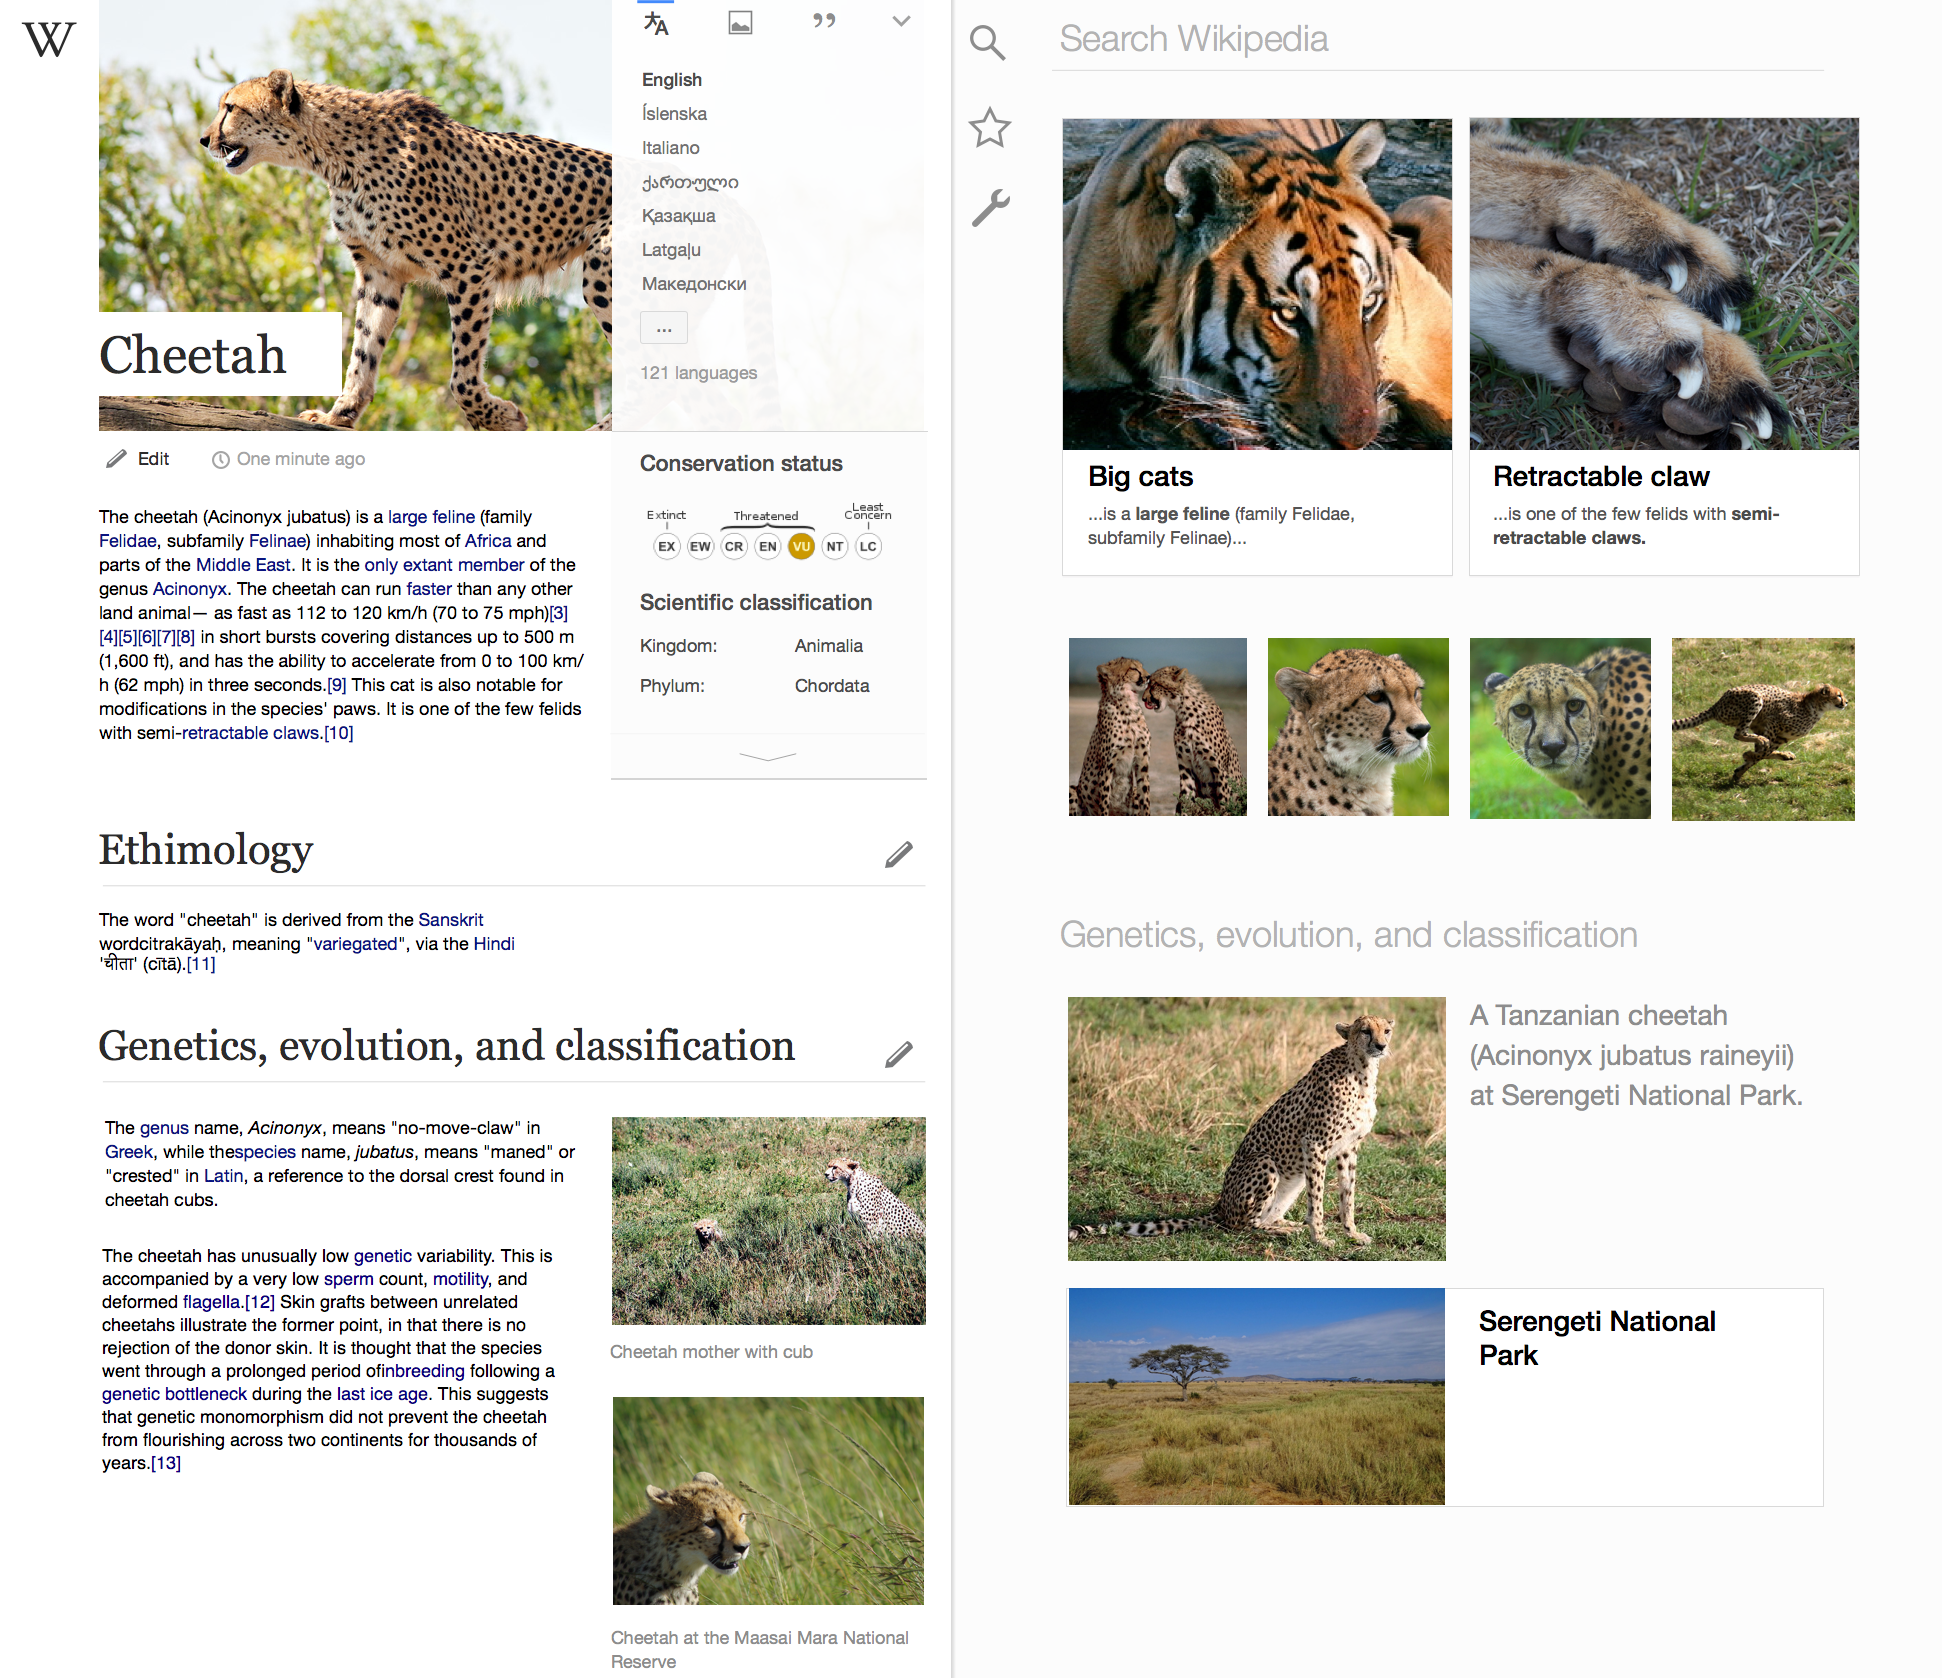
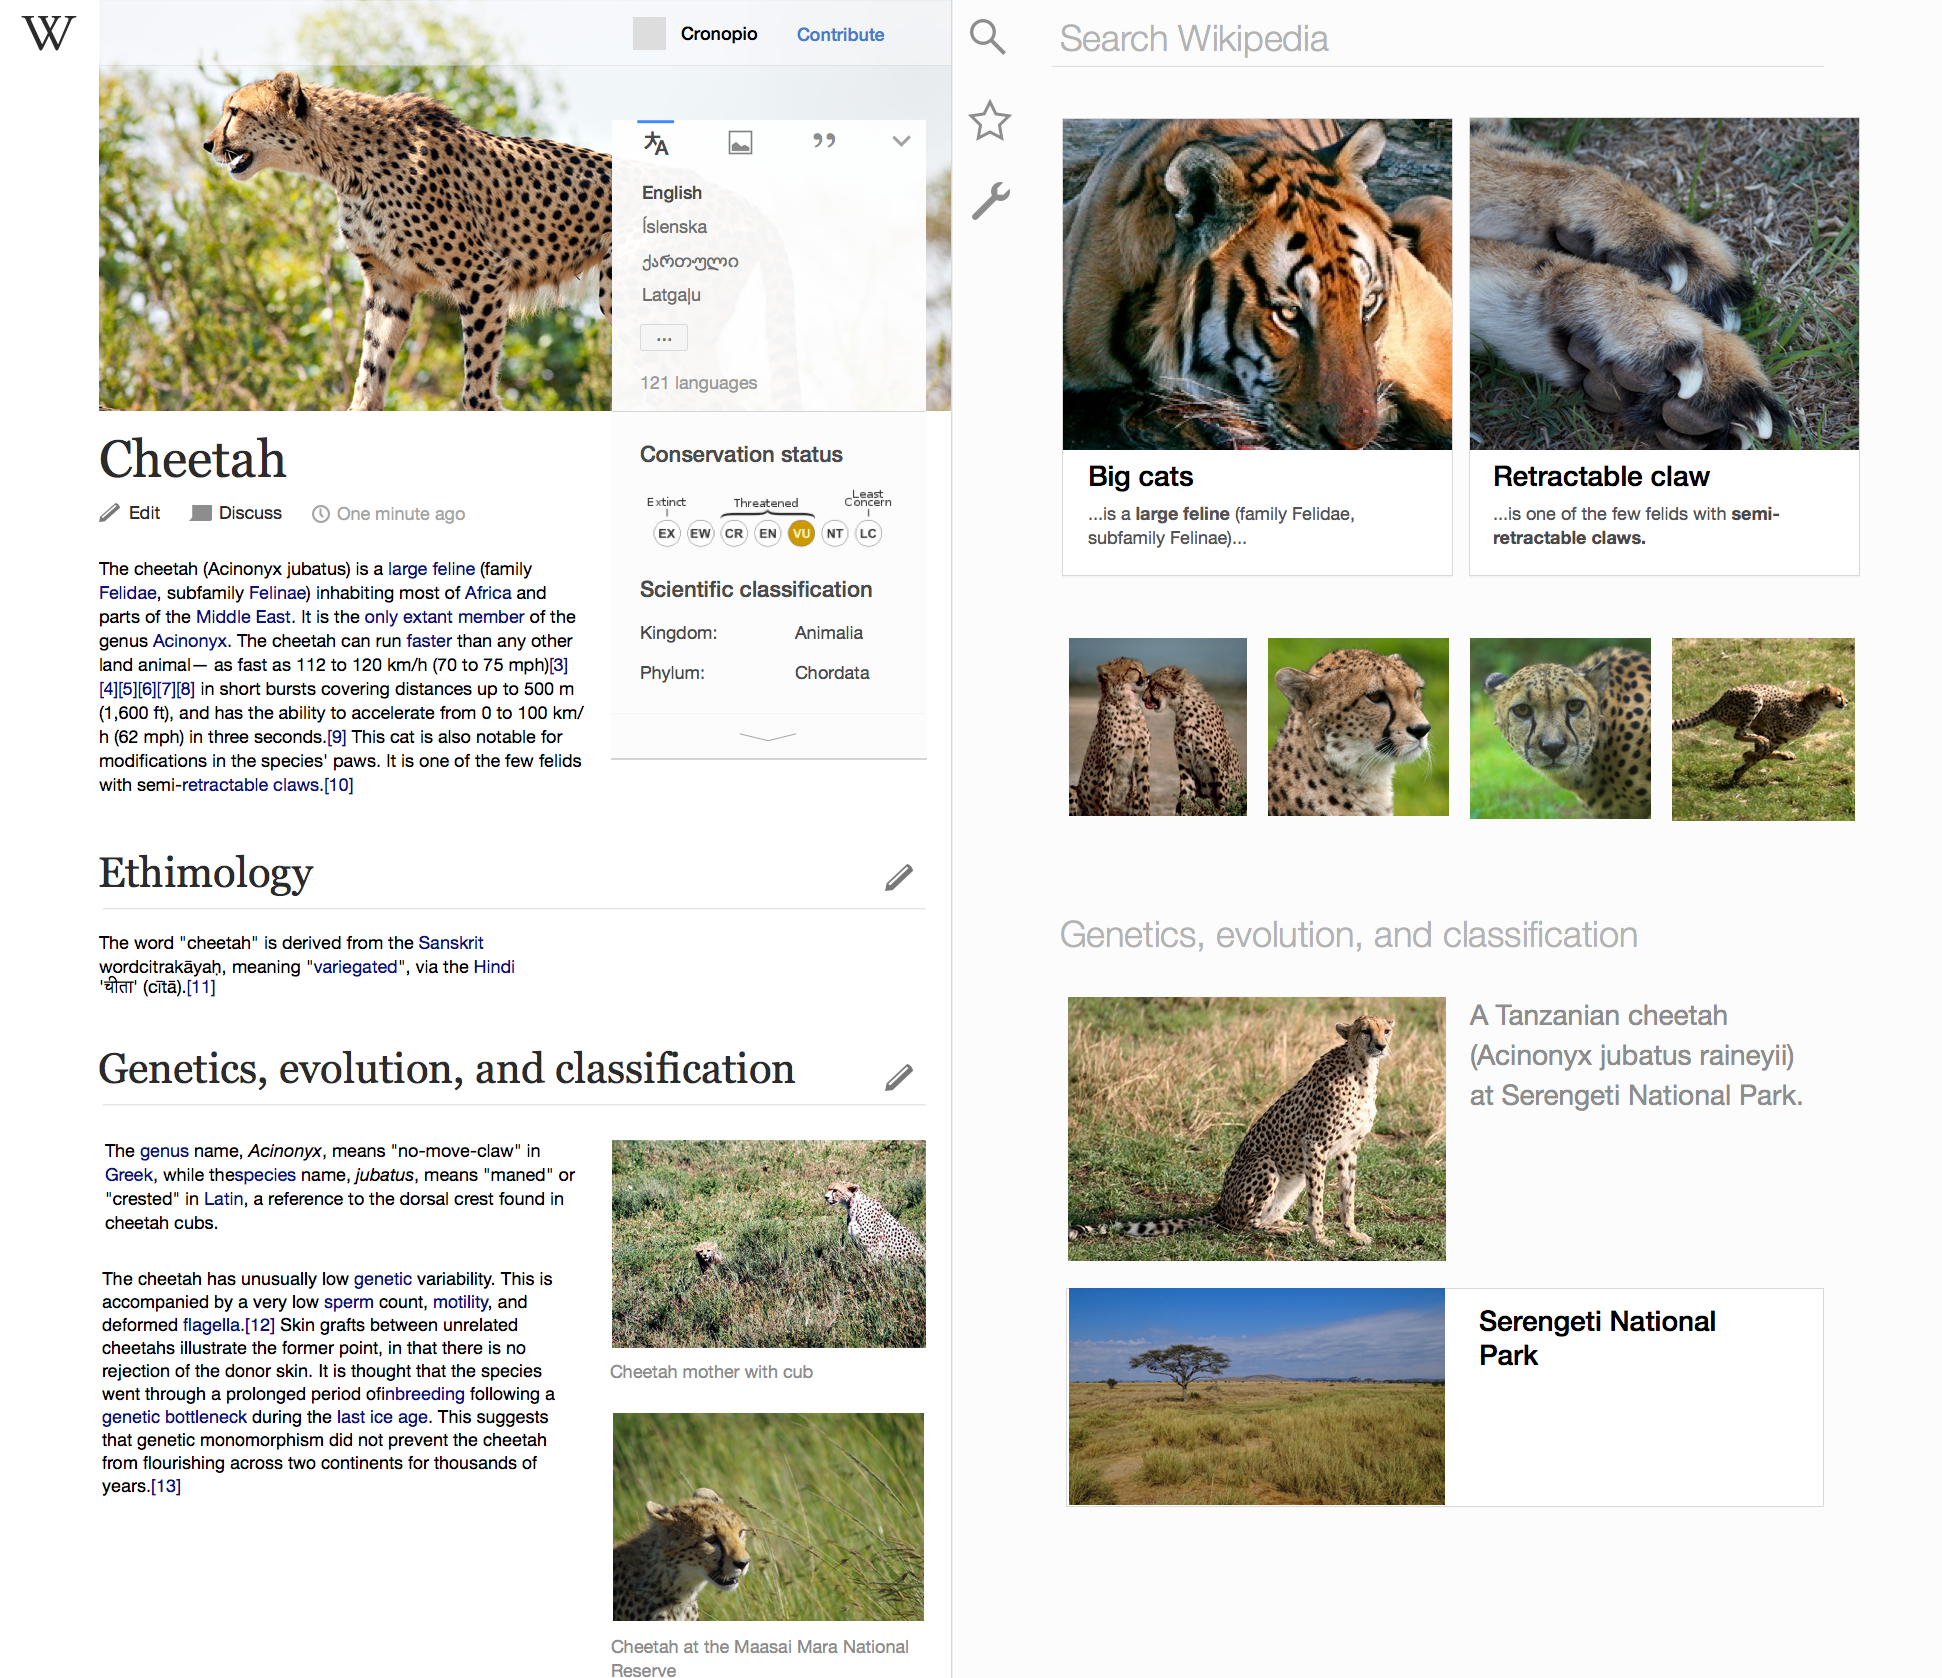
Switch image panel and layout adjustments

diff --git a/related-content/desk/index.hyperesources/index_hype_generated_script.js b/related-content/desk/index.hyperesources/index_hype_generated_script.js
@@ -2,5 +2,5 @@
 
 (function(){(function k(){var h="index.hyperesources",e="index",d="index_hype_container";if(false==!1)try{for(var f=document.getElementsByTagName("script"),b=0;b<f.length;b++){var a=f[b].src;if(null!=a&&-1!=a.indexOf("index_hype_generated_script.js")){h=a.substr(0,a.lastIndexOf("/"));break}}}catch(n){}null==window.HYPE_DocumentsToLoad&&(window.HYPE_DocumentsToLoad=[]);if(false==!1&&null==window.HYPE_248)null==window.HYPE_dtl_248?(window.HYPE_dtl_248=[],window.HYPE_dtl_248.push(k),
 e=document.getElementsByTagName("head")[0],d=document.createElement("script"),d.type="text/javascript",d.src=h+"/HYPE.js?hype_version=248",e.appendChild(d)):window.HYPE_dtl_248.push(k);else{f=window.HYPE.documents;if(null!=f[e]){a=1;b=e;do e=""+b+"-"+a++;while(null!=f[e]);for(var c=document.getElementsByTagName("div"),a=!1,b=0;b<c.length;b++)if(c[b].id==d&&null==c[b].getAttribute("HYP_dn")){var a=1,g=d;do d=""+g+"-"+a++;while(null!=document.getElementById(d));c[b].id=d;a=!0;break}if(!1==a)return}for(var a=
-new HYPE_248,c=[],c=[{name:"postOpenPanel",source:"function(hypeDocument, element, event) {\t\n\tpanelOpen = true;\n}",identifier:"6"},{name:"postClosePanel",source:"function(hypeDocument, element, event) {\tpanelOpen = false;\n\t\n}",identifier:"7"},{name:"postSwipeRight",source:"function(hypeDocument, element, event) {\t\n\tif(panelOpen){\n\thypeDocument.continueTimelineNamed('open-panel');\n\t}\n}",identifier:"8"},{name:"postSwipeLeft",source:"function(hypeDocument, element, event) {\tif(!panelOpen){\n\thypeDocument.startTimelineNamed('open-panel');\n\t}\n\t\n}",identifier:"9"}],g={},l={},b=0;b<c.length;b++)try{l[c[b].identifier]=c[b].name,g[c[b].name]=eval("(function(){return "+c[b].source+"})();")}catch(m){a.log(m),g[c[b].name]=function(){}}a.z_a({b:0,c:0,bQ:0,bC:0,d:0,aS:0,M:0,e:3,aT:0,N:0,f:2,O:0,g:5,aU:0,P:0,Q:0,aV:0,R:5,bG:3,aW:3,aI:0,S:0,T:0,l:2,aX:0,bH:2,m:5,bI:3,aJ:0,n:5,aK:0,bJ:3,X:0,aL:0,A:5,aZ:0,Y:1,B:5,bK:3,bL:3,C:5,D:5,t:0,E:0,G:5,bO:2,bA:5,a:0,bB:0});a.z_b({"0":{n:"desktop.png",p:1},"1":{n:"active-search.png",p:1}});a.z_c([]);a.z_d([{x:0,o:"1",p:"600px",c:"#FFFFFF",v:{"10":{c:60,d:1678,I:"None",J:"None",K:"None",L:"None",aP:"default",M:0,N:0,A:"#A0A0A0",x:"visible",j:"absolute",B:"#A0A0A0",aA:{a:[{p:4,h:"8"}]},k:"div",O:0,z:"3",P:0,D:"#A0A0A0",C:"#A0A0A0",a:0,b:0},"4":{o:"content-box",h:"1",a:960,x:"visible",q:"100% 100%",b:14,j:"absolute",r:"inline",aA:{a:[{b:"3",p:8}]},k:"div",c:56,d:58,z:"2",bF:"5",e:"0.000000",aP:"pointer"},"2":{o:"content-box",h:"0",x:"visible",a:0,q:"100% 100%",b:0,j:"absolute",r:"inline",c:1942,k:"div",z:"1",d:1678,bF:"5"},"5":{k:"div",x:"visible",c:1942,d:1678,z:"1",a:0,j:"absolute",b:0}},n:"Untitled Scene",G:{a:[{p:4,h:"9"}]},T:{"3":{i:"3",n:"open-panel",z:1,a:[{f:"2",y:0,z:0.15,i:"a",e:-910,s:0,o:"5"},{f:"2",y:0.07,z:0.08,i:"e",e:"1.000000",s:"0.000000",o:"4"},{f:"2",p:2,y:0.15,z:0,i:"ActionHandler",e:{a:[{b:"3",p:7}]},s:{a:[{p:4,h:"6"}]},o:"3"},{f:"2",y:0.15,z:0.07,i:"e",e:"0.000000",s:"1.000000",o:"4"},{f:"2",p:2,y:0.15,z:0.15,i:"ActionHandler",e:{a:[{p:4,h:"7"}]},s:{a:[{b:"3",p:7}]},o:"3"},{f:"2",y:0.15,z:0.15,i:"a",e:0,s:-910,o:"5"},{y:0.22,i:"e",s:"0.000000",z:0,o:"4",f:"2"},{f:"2",p:2,y:1,z:0,i:"ActionHandler",s:{a:[{p:4,h:"7"}]},o:"3"},{y:1,i:"a",s:0,z:0,o:"5",f:"2"}],f:30},kTimelineDefaultIdentifier:{i:"kTimelineDefaultIdentifier",n:"Main Timeline",z:0,a:[{y:0,i:"e",s:"0.000000",z:0,o:"4",f:"2"}],f:30}},H:{a:[{p:4,h:"8"}]}}]);a.z_e(l);a.z_p=g;a.z_f(0);a.z_g(d);a.z_h(h);a.z_i(0);a.z_j(false);
+new HYPE_248,c=[],c=[{name:"postOpenPanel",source:"function(hypeDocument, element, event) {\t\n\tpanelOpen = true;\n}",identifier:"6"},{name:"postClosePanel",source:"function(hypeDocument, element, event) {\tpanelOpen = false;\n\t\n}",identifier:"7"},{name:"postSwipeRight",source:"function(hypeDocument, element, event) {\t\n\tif(panelOpen){\n\thypeDocument.continueTimelineNamed('open-panel');\n\t}\n}",identifier:"8"},{name:"postSwipeLeft",source:"function(hypeDocument, element, event) {\tif(!panelOpen){\n\thypeDocument.startTimelineNamed('open-panel');\n\t}\n\t\n}",identifier:"9"}],g={},l={},b=0;b<c.length;b++)try{l[c[b].identifier]=c[b].name,g[c[b].name]=eval("(function(){return "+c[b].source+"})();")}catch(m){a.log(m),g[c[b].name]=function(){}}a.z_a({b:0,c:0,bQ:0,bC:0,d:0,aS:0,M:0,e:3,aT:0,N:0,f:2,O:0,g:5,aU:0,P:0,Q:0,aV:0,R:5,bG:3,aW:3,aI:0,S:0,T:0,l:2,aX:0,bH:2,m:5,bI:3,aJ:0,n:5,aK:0,bJ:3,X:0,aL:0,A:5,aZ:0,Y:1,B:5,bK:3,bL:3,C:5,D:5,t:0,E:0,G:5,bO:2,bA:5,a:0,bB:0});a.z_b({"0":{n:"active-search.png",p:1},"1":{n:"image-list.png",p:1},"2":{n:"desktop.png",p:1}});a.z_c([]);a.z_d([{x:0,o:"1",p:"600px",c:"#FFFFFF",v:{"13":{c:58,d:51,I:"None",J:"None",K:"None",L:"None",aP:"pointer",M:0,N:0,A:"#A0A0A0",x:"visible",j:"absolute",B:"#A0A0A0",aA:{a:[{p:8,b:"12"}]},k:"div",O:0,z:"5",P:0,D:"#A0A0A0",C:"#A0A0A0",a:627,b:-52},"11":{o:"content-box",h:"1",x:"visible",a:601,q:"100% 100%",b:93,j:"absolute",r:"inline",c:343,k:"div",z:"4",d:332,e:"0.000000"},"4":{o:"content-box",h:"0",a:960,x:"visible",q:"100% 100%",b:8,j:"absolute",r:"inline",aA:{a:[{b:"3",p:8}]},k:"div",c:56,d:58,z:"2",bF:"5",e:"0.000000",aP:"pointer"},"14":{c:58,d:51,I:"None",J:"None",K:"None",L:"None",aP:"pointer",M:1,N:1,A:"#A0A0A0",x:"visible",j:"absolute",B:"#A0A0A0",aA:{a:[{p:3,b:"12"}]},k:"div",O:1,z:"6",P:1,D:"#A0A0A0",C:"#A0A0A0",a:713,b:118},"5":{k:"div",x:"visible",c:1942,d:1678,z:"1",a:0,j:"absolute",b:0},"10":{c:60,d:1678,I:"None",J:"None",K:"None",L:"None",aP:"default",M:0,N:0,A:"#A0A0A0",x:"visible",j:"absolute",B:"#A0A0A0",aA:{a:[{p:4,h:"8"}]},k:"div",O:0,z:"3",P:0,D:"#A0A0A0",C:"#A0A0A0",a:0,b:0},"2":{o:"content-box",h:"2",x:"visible",a:0,q:"100% 100%",b:0,j:"absolute",r:"inline",c:1942,k:"div",z:"1",d:1678,bF:"5"}},n:"Untitled Scene",G:{a:[{p:4,h:"9"}]},T:{"3":{i:"3",n:"open-panel",z:1,a:[{f:"2",y:0,z:0.15,i:"a",e:-910,s:0,o:"5"},{f:"2",y:0.07,z:0.08,i:"e",e:"1.000000",s:"0.000000",o:"4"},{f:"2",p:2,y:0.15,z:0,i:"ActionHandler",e:{a:[{b:"3",p:7}]},s:{a:[{p:4,h:"6"}]},o:"3"},{f:"2",y:0.15,z:0.07,i:"e",e:"0.000000",s:"1.000000",o:"4"},{f:"2",p:2,y:0.15,z:0.15,i:"ActionHandler",e:{a:[{p:4,h:"7"}]},s:{a:[{b:"3",p:7}]},o:"3"},{f:"2",y:0.15,z:0.15,i:"a",e:0,s:-910,o:"5"},{y:0.22,i:"e",s:"0.000000",z:0,o:"4",f:"2"},{f:"2",p:2,y:1,z:0,i:"ActionHandler",s:{a:[{p:4,h:"7"}]},o:"3"},{y:1,i:"a",s:0,z:0,o:"5",f:"2"}],f:30},"12":{i:"12",n:"view-images",z:1,a:[{f:"2",y:0,z:0.15,i:"e",e:"1.000000",s:"0.000000",o:"11"},{f:"2",y:0,z:0.15,i:"b",e:108,s:-52,o:"13"},{f:"2",y:0,z:0.15,i:"b",e:-82,s:118,o:"14"},{f:"2",y:0,z:0.15,i:"P",e:0,s:1,o:"14"},{f:"2",y:0,z:0.15,i:"N",e:0,s:1,o:"14"},{f:"2",y:0,z:0.15,i:"O",e:0,s:1,o:"14"},{f:"2",y:0,z:0.15,i:"M",e:0,s:1,o:"14"},{f:"2",p:2,y:0.15,z:0,i:"ActionHandler",s:{a:[{p:7,b:"12"}]},o:"12"},{f:"2",y:0.15,z:0.15,i:"b",e:-52,s:108,o:"13"},{f:"2",y:0.15,z:0.15,i:"e",e:"0.000000",s:"1.000000",o:"11"},{f:"2",y:0.15,z:0.15,i:"b",e:118,s:-82,o:"14"},{y:0.15,i:"P",s:0,z:0,o:"14",f:"2"},{y:0.15,i:"N",s:0,z:0,o:"14",f:"2"},{y:0.15,i:"O",s:0,z:0,o:"14",f:"2"},{y:0.15,i:"M",s:0,z:0,o:"14",f:"2"},{y:1,i:"b",s:118,z:0,o:"14",f:"2"},{y:1,i:"e",s:"0.000000",z:0,o:"11",f:"2"},{y:1,i:"b",s:-52,z:0,o:"13",f:"2"}],f:30},kTimelineDefaultIdentifier:{i:"kTimelineDefaultIdentifier",n:"Main Timeline",z:0,a:[{y:0,i:"e",s:"0.000000",z:0,o:"4",f:"2"}],f:30}},H:{a:[{p:4,h:"8"}]}}]);a.z_e(l);a.z_p=g;a.z_f(0);a.z_g(d);a.z_h(h);a.z_i(0);a.z_j(false);
 a.z_k(true);a.z_l(true);a.z_m(true);a.z_n(e);f[e]=a.API;document.getElementById(d).setAttribute("HYP_dn",e);a.z_o(this.body)}})();})();

diff --git a/related-content/desk/index.html b/related-content/desk/index.html
@@ -31,7 +31,7 @@
 	<!-- copy these lines to your document: -->
 
 	<div id="index_hype_container" style="position:relative;overflow:hidden;width:1024px;height:1680px;">
-		<script type="text/javascript" charset="utf-8" src="index.hyperesources/index_hype_generated_script.js?29230"></script>
+		<script type="text/javascript" charset="utf-8" src="index.hyperesources/index_hype_generated_script.js?24973"></script>
 	</div>
 
 	<!-- end copy -->
